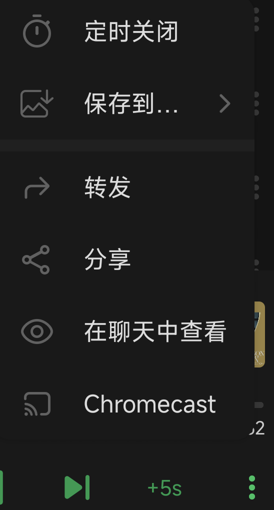
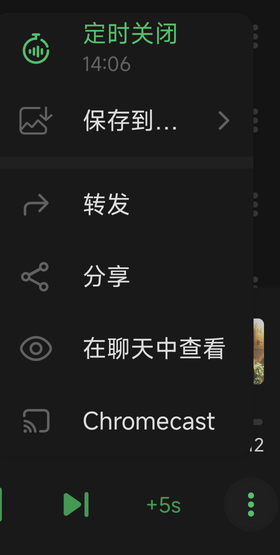
更新 1.3.1 版本说明、文档与真机截图

diff --git a/README.md b/README.md
@@ -26,7 +26,7 @@
 
 安装后请到 LSPosed 管理模块。模块没有桌面入口，播放和定时都在 NagramX 或 NiagramX 里操作。
 
-以下入口按 **1.3.0** 编写。用模块仓库正式包安装的用户，从 1.1.1 起可直接覆盖升级。1.0.0 至 1.1.0 的旧包需要先卸载。
+以下入口按 **1.3.1** 编写。用模块仓库正式包安装的用户，从 1.1.1 起可直接覆盖升级。1.0.0 至 1.1.0 的旧包需要先卸载。
 
 ## 功能入口
 
@@ -39,7 +39,7 @@
 
 ### 听视频
 
-点「听视频」后会从当前进度继续播。这个页面可以调倍速、拖进度、切换上一条或下一条，右下角列表按钮能打开当前聊天的共享视频。按返回键离开页面后可以继续听，点聊天顶部播放栏就能回来。想接着看画面，点封面或「返回画面」。
+点「听视频」后会以圆角浮动卡片形式从当前进度继续播。页面支持调倍速、拖进度、切换上一条或下一条，右下角列表按钮能打开当前聊天的共享视频（自动居中定位并高亮当前条）。点卡片上方暗色区域、左上角向下箭头、系统返回键或顶部下拉都能离开并继续后台收听，点聊天顶部播放栏就能回来；想接着看画面，点封面或「返回画面」。
 
 点右上角的定时按钮，可以选时长，也可以选「当前视频播放结束后」。如果设的是时长，切换视频后会接着倒计时。宿主有内置视频定时时，听视频页会使用宿主的定时功能。
 
@@ -79,12 +79,20 @@
 
 ## 构建与反馈
 
+项目不依赖 Gradle，只需安装 **JDK（8 或以上）** 与 **Android SDK**（按 [module.properties](module.properties) 默认使用 `platforms;android-37.0` 与 `build-tools;37.0.0`，通过环境变量 `ANDROID_HOME` 或 `JAVA_HOME` 自动定位）。首次运行会自动从 [module/deps.manifest](module/deps.manifest) 下载并校验 DexKit 依赖，由 [ModuleBuild.java](module/tools/ModuleBuild.java) 统一完成编译、16KB 页对齐（`zipalign`）与签名验证：
+
 ```powershell
 .\build.ps1
 .\build.ps1 -Release
 .\module\test\run_test.ps1
 ```
 
-直接通过 JDK 与 Android SDK 构建，`build.ps1` 和 `build.sh` 会分别输出到 `build/NagramTimer-v<版本>-debug.apk` 与 `build/NagramTimer-v<版本>-release.apk`（Windows / Linux / macOS 均可运行，版本与 SDK 参数配置在 [module.properties](module.properties)）。Debug 使用开发签名，正式包的签名配置见 [keystore.properties.example](keystore.properties.example)。标签格式为 `versionCode-versionName`，个人仓库的 CI 按标签构建，模块仓库的更新单独进行。
+```bash
+bash build.sh
+bash build.sh --release
+bash module/test/run_test.sh
+```
+
+`build.ps1` 与 `build.sh` 会分别输出到 `build/NagramTimer-v<版本>-debug.apk` 与 `build/NagramTimer-v<版本>-release.apk`。Debug 默认使用本地开发签名；Release 正式包的签名配置见 [keystore.properties.example](keystore.properties.example)。发布标签格式为 `versionCode-versionName`（例如 `10301-1.3.1`），个人仓库的 CI 按标签构建并提取 [CHANGELOG.md](CHANGELOG.md) 对应版本说明，模块仓库的更新单独进行。
 
 [更新日志](CHANGELOG.md) · [问题反馈](https://github.com/shitianyaa/NagramXVideoTimerLSP/issues) · [Apache License 2.0](LICENSE)

diff --git a/CHANGELOG.md b/CHANGELOG.md
@@ -4,6 +4,24 @@
 
 ## [未发布]
 
+## [1.3.1] - 2026-11-28
+
+### 更改
+
+- 「听视频」播放页改为原生圆角浮动卡片布局：顶部保留暗色遮罩与拖拽条，点击空白区域、左上角向下收起箭头或下滑均可收起；竖屏下最低高度提升至可用高度的 `84%`，并支持横竖屏切换时实时重算页高与封面尺寸。
+- 统一自定义矢量图标 `ListenVideoIcons`：PhotoViewer 菜单中的「听视频」改用耳机与三音柱图标，听视频页右上角按钮与音乐「定时关闭」菜单项统一改用断环秒表与四音柱图标。
+- 视频定时面板与音乐定时面板在高屏竖屏下展开为 `252dp`、`7` 个可见滚轮项，优化快速选择按钮与主操作按钮对比度，并避免双层底部面板顶边重叠。
+- 共享视频列表改为同步窗口渲染，首次打开自动居中定位当前播放条目并以强调色指示条高亮，缓存校验完成时柔和淡入。
+
+### 修复
+
+- 修复听视频页 `onMeasure` 期间修改滚动区 `LayoutParams.height` 并二次测量引起的多余重排；顶部剩余定时改用等宽数字（`tnum`）防止跳秒抖动。
+- 修复 Niagram 13.2.2 后台播放在开启两行定时显示后切换音视频或定时模式时迷你播放器标题未同步刷新的问题。
+
+### 构建
+
+- 移除 Gradle、AGP 与历史 `app/` Kotlin 壳目录，改由跨平台纯 JDK 工具类 `ModuleBuild.java` 与精简包装脚本（`build.ps1`、`build.sh`、`run_test.ps1`、`run_test.sh`）直接编排 `javac`、`d8`、`aapt2`、`zipalign`（16KB 页对齐）与 `apksigner` 出包。
+
 ## [1.3.0] - 2026-11-26
 
 ### 新增
@@ -115,7 +133,8 @@
 - 模块状态页、运行时签名探测、日志和安全停用机制。
 - GitHub Actions 自动构建、检查和标签发布流程。
 
-[未发布]: https://github.com/Xposed-Modules-Repo/com.shitianyaa.nagramx.videotimer/compare/10300-1.3.0...HEAD
+[未发布]: https://github.com/shitianyaa/NagramXVideoTimerLSP/compare/10301-1.3.1...HEAD
+[1.3.1]: https://github.com/Xposed-Modules-Repo/com.shitianyaa.nagramx.videotimer/releases/tag/10301-1.3.1
 [1.3.0]: https://github.com/Xposed-Modules-Repo/com.shitianyaa.nagramx.videotimer/releases/tag/10300-1.3.0
 [1.2.0]: https://github.com/Xposed-Modules-Repo/com.shitianyaa.nagramx.videotimer/releases/tag/10200-1.2.0
 [1.1.2]: https://github.com/Xposed-Modules-Repo/com.shitianyaa.nagramx.videotimer/releases/tag/10102-1.1.2
